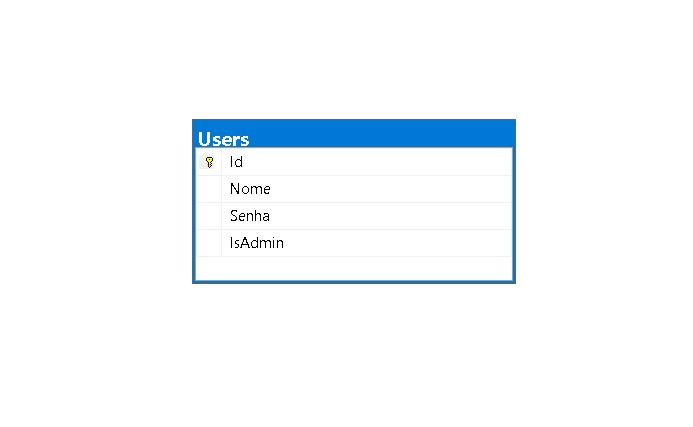
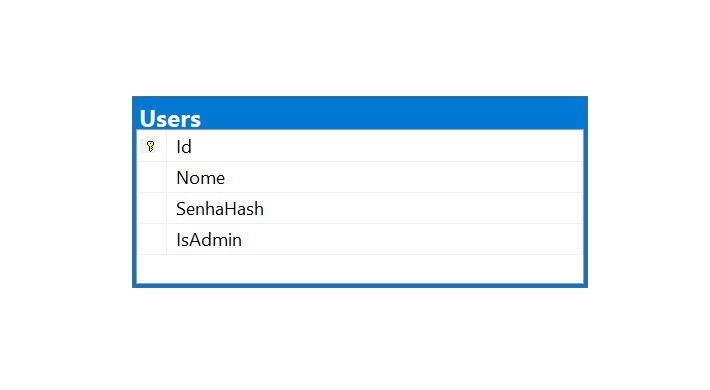
fix: atualizar connection string e renomear coluna SenhaHash

Changed region(s): [[0.1818, 0.2462, 0.8485, 0.7385]]

diff --git a/Back/Tela_Login/Data/SqlConnec.cs b/Back/Tela_Login/Data/SqlConnec.cs
@@ -10,10 +10,11 @@ namespace Tela_Login.Data
     internal class SqlConnec
     {
         private static readonly string connectionString =
-           "Server=DESKTOP-42RL6N1;Database=Tela_Cadastro;User Id=sa;Password=135113rr;"; 
+           "Server=(localdb)\\MSSQLLocalDB;Database=Tela_Cadastro;Integrated Security=True;";
 
-        
-        public static SqlConnection GetConnection() 
+
+
+       public static SqlConnection GetConnection() 
         {
             SqlConnection connection = new SqlConnection(connectionString);
             connection.Open(); 

diff --git a/Back/Tela_Login/Program.cs b/Back/Tela_Login/Program.cs
@@ -14,7 +14,7 @@ namespace Tela_Login
     {
         static void Main(string[] args)
         {
-            string connectionString = "Server=DESKTOP-42RL6N1;Database=Tela_Cadastro;User Id=sa;Password=135113rr;";
+            string connectionString = "Server=(localdb)\\MSSQLLocalDB;Database=Tela_Cadastro;Integrated Security=True;";
 
             try
             {
